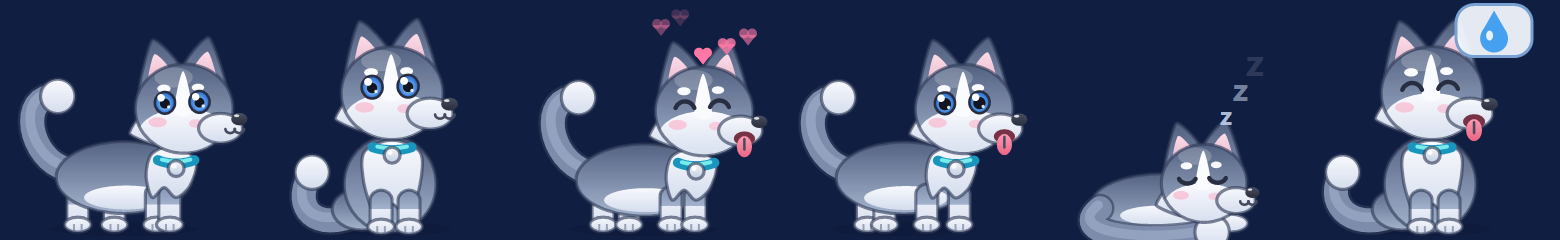
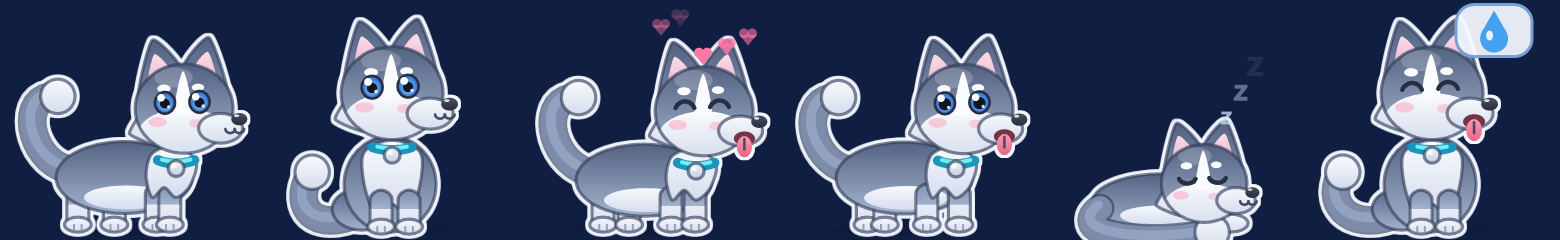
Make Lucky bigger and add a sticker outline
Default size is now 1.4x with a Nho/Vua/Lon size menu persisted in
memory. The pet is rendered to its own layer and stamped with a white
die-cut outline so it stays readable on dark backgrounds; the ground
shadow is drawn separately so it isn't outlined. Fix dark text on the
transparent canvas.

diff --git a/src/Lucky.cs b/src/Lucky.cs
@@ -1,6 +1,7 @@
 // Lucky - a tiny Husky desktop pet that lives on top of your Windows taskbar.
 // Pure WinForms + GDI+, no dependencies. Build with build.ps1 (uses the C# compiler bundled with Windows).
 using System;
+using System.Collections.Generic;
 using System.Drawing;
 using System.Drawing.Drawing2D;
 using System.Globalization;
@@ -45,6 +46,7 @@ namespace LuckyPet
         public DateTime FirstMet = DateTime.Now, LastSeen = DateTime.Now;
         public int Pets, Chases, Reminders, Naps, Drops, DayMilestone, PetMilestone;
         public double Affection = 60, PosX = -1;
+        public float Size = 1.4f;
         public int Facing = 1;
         public bool RemindOn = true;
 
@@ -83,6 +85,7 @@ namespace LuckyPet
                         case "pos_x": m.PosX = double.Parse(v, CI); break;
                         case "facing": m.Facing = int.Parse(v, CI) < 0 ? -1 : 1; break;
                         case "remind_on": m.RemindOn = v == "true"; break;
+                        case "size": m.Size = Math.Max(0.8f, Math.Min(2.5f, float.Parse(v, CI))); break;
                     }
                 }
                 catch { /* ignore a bad line, keep the rest */ }
@@ -108,6 +111,7 @@ namespace LuckyPet
             sb.AppendLine("pos_x=" + PosX.ToString("0", CI));
             sb.AppendLine("facing=" + Facing.ToString(CI));
             sb.AppendLine("remind_on=" + (RemindOn ? "true" : "false"));
+            sb.AppendLine("size=" + Size.ToString("0.0", CI));
             string tmp = FilePath + ".tmp";
             File.WriteAllText(tmp, sb.ToString(), new UTF8Encoding(false));
             if (File.Exists(FilePath)) File.Replace(tmp, FilePath, null); else File.Move(tmp, FilePath);
@@ -140,8 +144,9 @@ namespace LuckyPet
         const int RemindMinutes = 45;
         static readonly int[] DayMilestones = { 3, 7, 30, 100, 365 };
         static readonly int[] PetMilestones = { 10, 50, 100, 500, 1000 };
-        float S; int PW, PH;
-        Bitmap canvas;
+        float S, dpiScale = 1; int PW, PH;
+        Bitmap canvas, petLayer;
+        System.Drawing.Imaging.ImageAttributes whiteAttr;
         Timer timer;
         Random rnd = new Random();
         St st = St.Sit;
@@ -171,47 +176,65 @@ namespace LuckyPet
         // Offline renderer for README screenshots / visual checks (no tray, no memory writes).
         public PetForm(bool snapshotOnly)
         {
-            S = 1; PW = CW; PH = CH; mem = new Memory(); mem.Affection = 90;
+            mem = new Memory(); mem.Affection = 90;
             timer = new Timer();
+            S = 2; Alloc();
         }
 
         public void Snapshot(string path)
         {
             var poses = new[] { St.Walk, St.Sit, St.Happy, St.Chase, St.Sleep, St.Remind };
-            int tw = 260, th = 240;
-            using (var sheet = new Bitmap(tw * poses.Length, th))
+            using (var sheet = new Bitmap(PW * poses.Length, PH))
             using (var g = Graphics.FromImage(sheet))
             {
                 g.Clear(Color.FromArgb(16, 30, 66));
-                g.SmoothingMode = SmoothingMode.AntiAlias;
-                g.PixelOffsetMode = PixelOffsetMode.HighQuality;
                 y = Ground();
                 for (int i = 0; i < poses.Length; i++)
                 {
                     st = poses[i]; frame = 20; dir = 1;
-                    var s0 = g.Save();
-                    g.TranslateTransform(i * tw, 0); g.ScaleTransform(2, 2);
-                    var s1 = g.Save();
-                    if (st == St.Sleep) DrawSleep(g);
-                    else if (st == St.Sit || st == St.Remind) DrawSit(g);
-                    else DrawStand(g);
-                    g.Restore(s1);
-                    DrawOverlay(g);
-                    g.Restore(s0);
+                    RenderFrame();
+                    g.DrawImageUnscaled(canvas, i * PW, 0);
                 }
                 sheet.Save(path, System.Drawing.Imaging.ImageFormat.Png);
             }
         }
 
+        void Alloc()
+        {
+            PW = (int)(CW * S); PH = (int)(CH * S);
+            if (canvas != null) canvas.Dispose();
+            if (petLayer != null) petLayer.Dispose();
+            canvas = new Bitmap(PW, PH, System.Drawing.Imaging.PixelFormat.Format32bppArgb);
+            petLayer = new Bitmap(PW, PH, System.Drawing.Imaging.PixelFormat.Format32bppArgb);
+            if (whiteAttr == null)
+            {
+                // Paint every pixel near-white while keeping its alpha -> used for the sticker outline
+                var cm = new System.Drawing.Imaging.ColorMatrix(new float[][] {
+                    new float[] { 0, 0, 0, 0, 0 }, new float[] { 0, 0, 0, 0, 0 }, new float[] { 0, 0, 0, 0, 0 },
+                    new float[] { 0, 0, 0, 1, 0 }, new float[] { 0.95f, 0.97f, 1, 0, 1 } });
+                whiteAttr = new System.Drawing.Imaging.ImageAttributes();
+                whiteAttr.SetColorMatrix(cm);
+            }
+        }
+
+        void SetSize(float z)
+        {
+            mem.Size = z; dirty = true;
+            S = dpiScale * z; Alloc();
+            var wa = Screen.PrimaryScreen.WorkingArea;
+            x = Math.Max(wa.Left, Math.Min(wa.Right - PW, x));
+            y = Ground();
+            Render();
+        }
+
         public PetForm()
         {
             FormBorderStyle = FormBorderStyle.None; ShowInTaskbar = false; StartPosition = FormStartPosition.Manual;
-            using (var g = Graphics.FromHwnd(IntPtr.Zero)) S = g.DpiX / 96f;
-            PW = (int)(CW * S); PH = (int)(CH * S);
-            canvas = new Bitmap(PW, PH, System.Drawing.Imaging.PixelFormat.Format32bppArgb);
-
+            using (var g = Graphics.FromHwnd(IntPtr.Zero)) dpiScale = g.DpiX / 96f;
             bool isNew;
             mem = Memory.Load(out isNew);
+            S = dpiScale * mem.Size;
+            Alloc();
             remindOn = mem.RemindOn;
             dir = mem.Facing;
             var wa = Screen.PrimaryScreen.WorkingArea;
@@ -225,6 +248,18 @@ namespace LuckyPet
             menu.Items.Add("Kỷ niệm với Lucky 📖", null, delegate { ShowMemories(); });
             menu.Items.Add("Cho Lucky đi ngủ 💤", null, delegate { SetState(St.Sleep, 1200); });
             menu.Items.Add("Đánh thức Lucky", null, delegate { SetState(St.Walk, 150); });
+            var sizeMenu = new ToolStripMenuItem("Kích thước");
+            foreach (var opt in new[] { new KeyValuePair<string, float>("Nhỏ", 1.0f), new KeyValuePair<string, float>("Vừa", 1.4f), new KeyValuePair<string, float>("Lớn", 1.8f) })
+            {
+                var it = new ToolStripMenuItem(opt.Key) { Checked = Math.Abs(mem.Size - opt.Value) < 0.05f, Tag = opt.Value };
+                it.Click += delegate(object s, EventArgs e)
+                {
+                    foreach (ToolStripMenuItem o in sizeMenu.DropDownItems) o.Checked = o == s;
+                    SetSize((float)((ToolStripMenuItem)s).Tag);
+                };
+                sizeMenu.DropDownItems.Add(it);
+            }
+            menu.Items.Add(sizeMenu);
             var rem = new ToolStripMenuItem("Nhắc uống nước & vươn vai (mỗi 45 phút)") { Checked = remindOn, CheckOnClick = true };
             rem.CheckedChanged += delegate { remindOn = rem.Checked; nextRemind = DateTime.Now.AddMinutes(RemindMinutes); dirty = true; };
             menu.Items.Add(rem);
@@ -446,23 +481,47 @@ namespace LuckyPet
         }
 
         // ---------- rendering ----------
-        void Render()
+        void Render() { RenderFrame(); Push(); }
+
+        void RenderFrame()
         {
-            using (var g = Graphics.FromImage(canvas))
+            // 1) the pet itself on its own layer
+            using (var g = Graphics.FromImage(petLayer))
             {
                 g.Clear(Color.Transparent);
                 g.SmoothingMode = SmoothingMode.AntiAlias;
                 g.PixelOffsetMode = PixelOffsetMode.HighQuality;
                 g.ScaleTransform(S, S);
-                var state = g.Save();
                 if (dir < 0) { g.TranslateTransform(CW, 0); g.ScaleTransform(-1, 1); }
                 if (st == St.Sleep) DrawSleep(g);
                 else if (st == St.Sit || st == St.Remind) DrawSit(g);
                 else DrawStand(g);
-                g.Restore(state);
+            }
+            // 2) ground shadow + white sticker outline + pet + overlays
+            using (var g = Graphics.FromImage(canvas))
+            {
+                g.Clear(Color.Transparent);
+                g.SmoothingMode = SmoothingMode.AntiAlias;
+                g.PixelOffsetMode = PixelOffsetMode.HighQuality;
+                var s0 = g.Save();
+                g.ScaleTransform(S, S);
+                if (dir < 0) { g.TranslateTransform(CW, 0); g.ScaleTransform(-1, 1); }
+                if (st == St.Sleep) GroundShadow(g, 62, 80);
+                else if (st == St.Sit || st == St.Remind) GroundShadow(g, 64, 64);
+                else GroundShadow(g, 62, 76);
+                g.Restore(s0);
+                float o = 1.7f * S;
+                for (int k = 0; k < 12; k++)
+                {
+                    double a = k * Math.PI / 6;
+                    int dx = (int)Math.Round(Math.Cos(a) * o), dy = (int)Math.Round(Math.Sin(a) * o);
+                    g.DrawImage(petLayer, new Rectangle(dx, dy, PW, PH), 0, 0, PW, PH, GraphicsUnit.Pixel, whiteAttr);
+                }
+                g.DrawImageUnscaled(petLayer, 0, 0);
+                g.TextRenderingHint = System.Drawing.Text.TextRenderingHint.AntiAlias;
+                g.ScaleTransform(S, S);
                 DrawOverlay(g);
             }
-            Push();
         }
 
         void Push()
@@ -632,7 +691,6 @@ namespace LuckyPet
             float bob = walking ? (float)Math.Abs(Math.Sin(frame * speed)) * 2 : 0;
             float wag = st == St.Happy || st == St.Chase ? (float)Math.Sin(frame * 0.8) * 9 : (float)Math.Sin(frame * 0.25) * 4;
             float ph = walking ? (float)Math.Sin(frame * speed) * 4 : 0;
-            GroundShadow(g, 62, 74);
             Tail(g, P(34, 86 - bob), P(14, 80), P(10 + wag * 0.4f, 50 + wag), P(30 + wag * 0.3f, 50 + wag * 0.5f), 12);
             Leg(g, 36 - ph, 93 - bob, 22 + bob); Leg(g, 49 + ph, 93 - bob, 22 + bob);
             Blob(g, 28, 72 - bob, 68, 36, FurTop, FurLight, true);
@@ -647,7 +705,6 @@ namespace LuckyPet
         void DrawSit(Graphics g)
         {
             float wag = st == St.Remind ? (float)Math.Sin(frame * 0.6) * 5 : (float)Math.Sin(frame * 0.12) * 3;
-            GroundShadow(g, 64, 62);
             Tail(g, P(46, 108), P(24, 116), P(14 + wag, 100), P(24 + wag, 86), 12);
             Blob(g, 36, 94, 30, 21, FurTop, FurLight, true);
             Blob(g, 42, 68, 46, 48, FurTop, FurLight, true);
@@ -660,7 +717,6 @@ namespace LuckyPet
         void DrawSleep(Graphics g)
         {
             float br = (float)Math.Sin(frame * 0.08) * 1.3f;
-            GroundShadow(g, 62, 78);
             Blob(g, 26, 88 - br, 72, 28 + br, FurTop, FurLight, true);
             Blob(g, 40, 104 - br, 40, 10, White, WhiteShade, false);
             Blob(g, 86, 107, 18, 9, White, WhiteShade, true);

diff --git a/README.md b/README.md
@@ -14,6 +14,8 @@ A tiny Husky that lives on top of your Windows taskbar. It walks, sits, naps, ch
 - **Health reminder.** Every 45 minutes Lucky shows a water-drop bubble and a notification: drink water and stretch.
 - **Hides automatically** while a full-screen app or game is in the foreground.
 - **Tray menu.** Pet, sleep, wake, toggle the reminder, toggle *start with Windows*, quit.
+- **Sticker style.** A white die-cut outline keeps Lucky readable on dark wallpapers and transparent taskbars.
+- **Three sizes.** Pick Nhỏ / Vừa / Lớn from the tray menu. The choice is saved to memory.
 - DPI aware with per-pixel alpha (layered window). Transparent pixels pass clicks through.
 
 ## Memory 🧠
